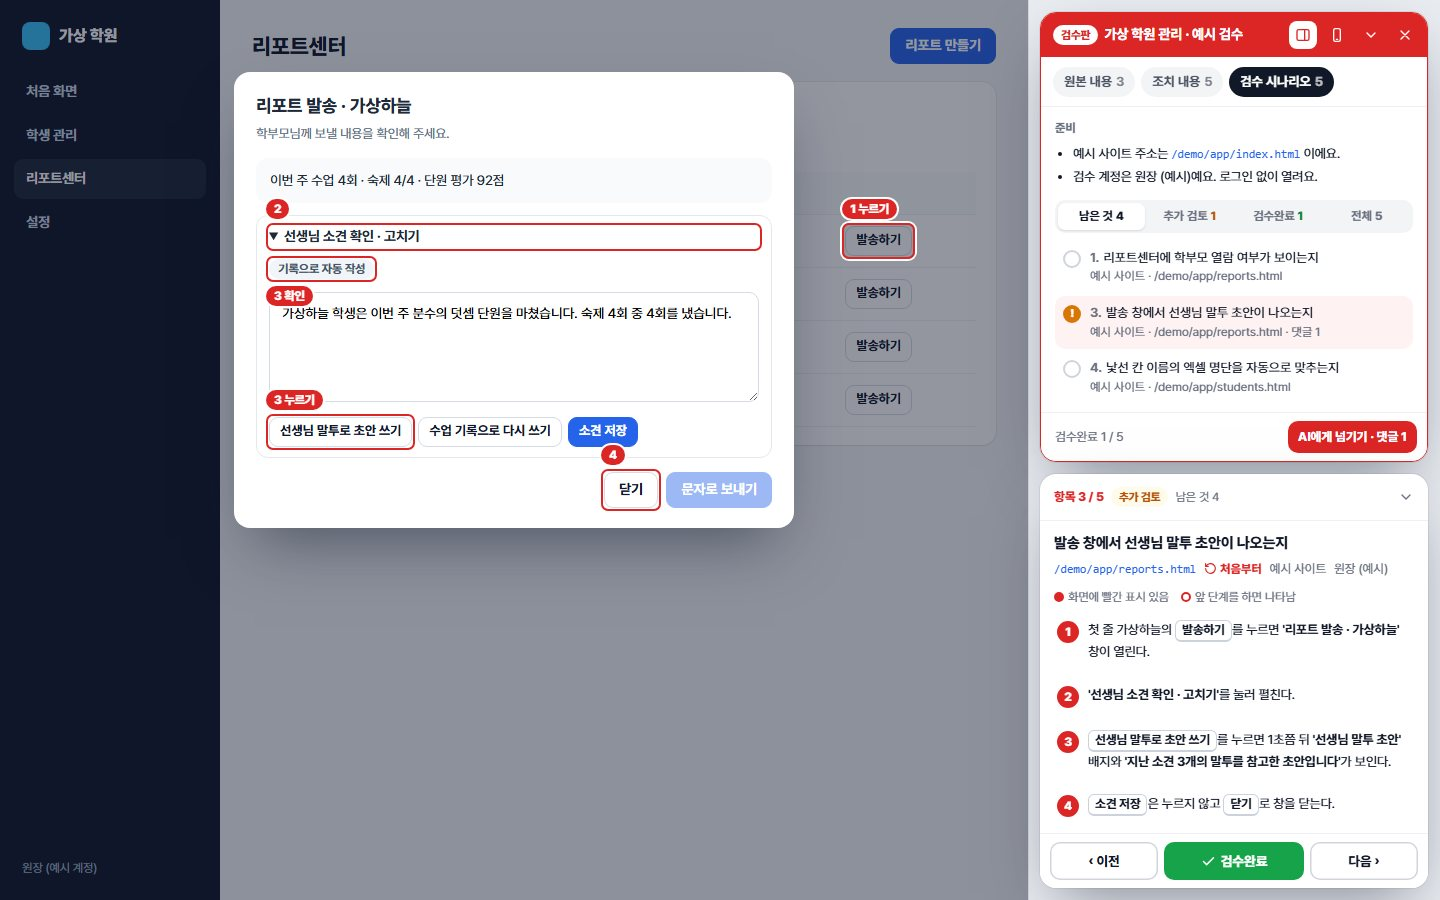
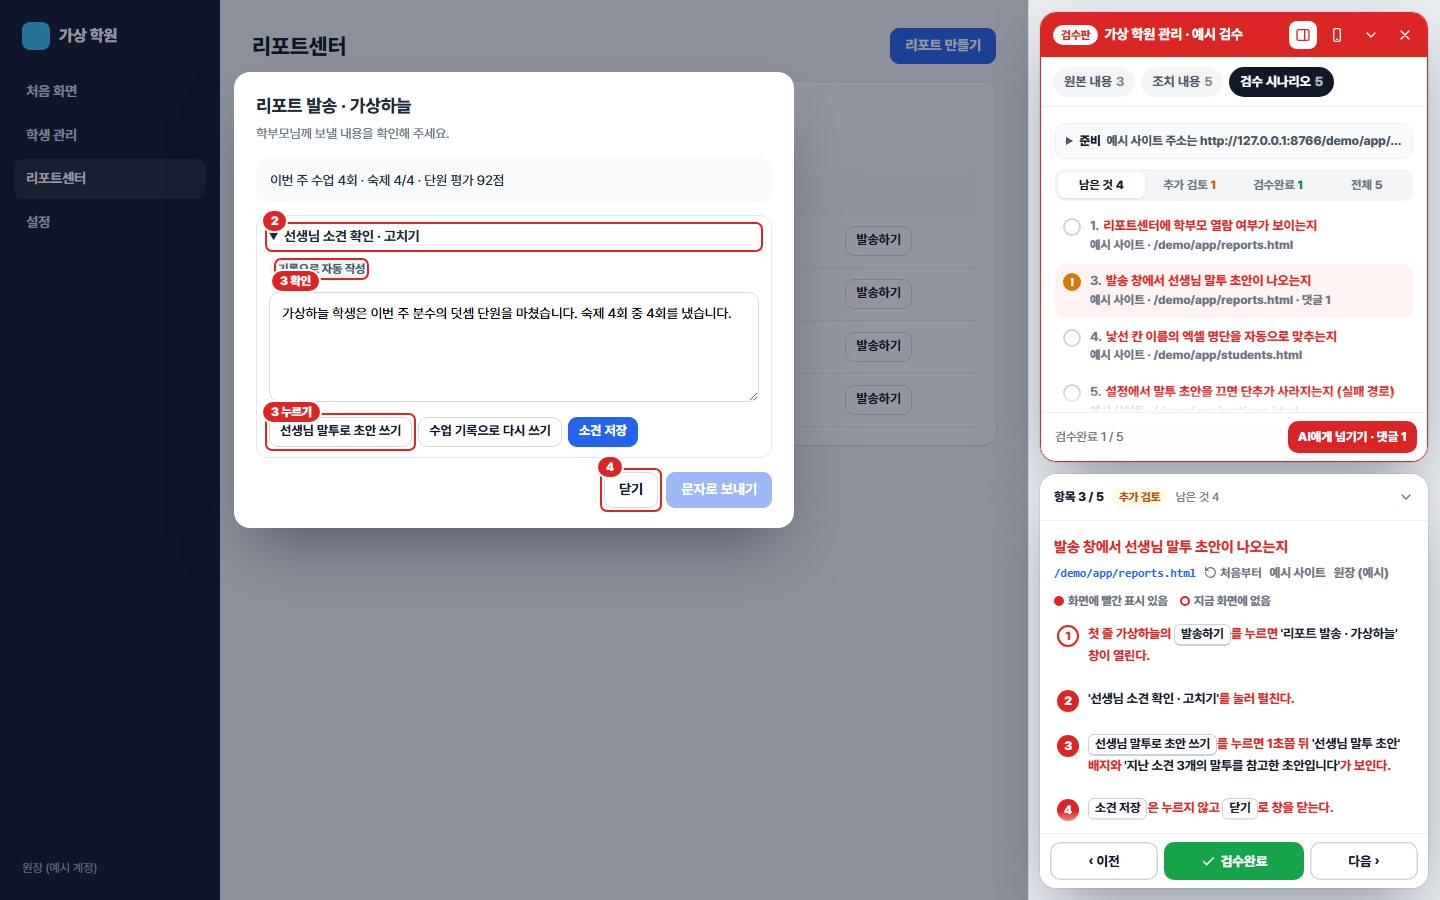
가려진 표시 숨김, 번호표 자리 고르기, 짧은 링크, 안내 화면 정리

diff --git a/qa-review.js b/qa-review.js
@@ -96,7 +96,8 @@
   const shortUrl = (url) => attempt(() => {
     const u = new URL(url, location.href);
     const rest = u.pathname + u.search + u.hash;
-    return u.origin === location.origin ? rest : u.host + (rest === '/' ? '' : rest);
+    if (rest === '/' || rest === '') return u.host;
+    return u.origin === location.origin ? rest : u.host + rest;
   }, String(url || ''));
   const link = (url, mono) => `<a class="ln${mono ? ' mono' : ''}" href="${esc(url)}" data-href="${esc(url)}" title="${esc(url)}">${esc(shortUrl(url))}</a>`;
   const URLS = /(https?:\/\/[^\s<>"'`]+[^\s<>"'`.,;:!?)\]])/g;
@@ -195,6 +196,34 @@
         .filter((el) => squash([el.getAttribute('aria-label'), el.getAttribute('placeholder'), el.getAttribute('title'), el.getAttribute('alt')].join(' ')).includes(want) && isShown(el));
     }
     return { el: shown[nth] || null, matches: shown.length };
+  };
+  const BOXY = { INPUT: 1, TEXTAREA: 1, SELECT: 1, BUTTON: 1, IMG: 1, SVG: 1, VIDEO: 1, CANVAS: 1, IFRAME: 1, SUMMARY: 1, PROGRESS: 1 };
+  const contentRect = (el) => {
+    const r = el.getBoundingClientRect();
+    if (BOXY[el.tagName.toUpperCase()] || el.getAttribute('role') === 'button' || !el.firstChild) return r;
+    const range = attempt(() => {
+      const x = el.ownerDocument.createRange();
+      x.selectNodeContents(el);
+      return x;
+    }, null);
+    const c = range ? range.getBoundingClientRect() : null;
+    if (!c || c.width < 2 || c.height < 2 || (c.width > r.width - 10 && c.height > r.height - 10)) return r;
+    const inner = intersect(c, r);
+    return inner ? Object.assign(inner, { width: inner.right - inner.left, height: inner.bottom - inner.top }) : r;
+  };
+  const textAt = (doc, x, y) => {
+    let node = null;
+    if (doc.caretRangeFromPoint) {
+      const range = attempt(() => doc.caretRangeFromPoint(x, y), null);
+      node = range && range.startContainer;
+    } else if (doc.caretPositionFromPoint) {
+      const pos = attempt(() => doc.caretPositionFromPoint(x, y), null);
+      node = pos && pos.offsetNode;
+    }
+    if (!node || node.nodeType !== 3 || !node.textContent.trim()) return false;
+    const r = doc.createRange();
+    r.selectNodeContents(node);
+    return Array.from(r.getClientRects()).some((c) => x >= c.left && x <= c.right && y >= c.top && y <= c.bottom);
   };
   const selectorFor = (el) => {
     const doc = el.ownerDocument;
@@ -409,6 +438,12 @@ svg{display:block}
 .tab.on{background:#111827;color:#fff}
 .tab i{font-style:normal;margin-left:4px;opacity:.7}
 .body{flex:1;min-height:0;overflow:auto;padding:12px 14px 14px;overscroll-behavior:contain}
+.body.more,.nb.more{-webkit-mask-image:linear-gradient(to bottom,#000 calc(100% - 22px),transparent);mask-image:linear-gradient(to bottom,#000 calc(100% - 22px),transparent)}
+details.prep{margin:0 0 10px;background:#f9fafb;border:1px solid #eef0f4;border-radius:10px;padding:7px 10px}
+details.prep summary{cursor:pointer;font-size:12.5px;color:#4b5563;white-space:nowrap;overflow:hidden;text-overflow:ellipsis}
+details.prep summary b{color:#111827;margin-right:6px}
+details.prep[open] summary{white-space:normal}
+details.prep ul{margin-top:6px}
 .ft{flex:none;display:flex;align-items:center;gap:8px;padding:8px 10px 8px 14px;border-top:1px solid #eef0f4;background:#fff}
 .ft .sum{flex:1;min-width:0;font-size:12.5px;color:#6b7280;white-space:nowrap;overflow:hidden;text-overflow:ellipsis}
 .top.fold{max-height:none}
@@ -455,7 +490,7 @@ details.sec summary{cursor:pointer}
 .dot.needs::after{content:"!";font-size:11px;font-weight:900;line-height:1}
 .empty{color:#6b7280;font-size:13px;margin:10px 2px}
 .nh{flex:none;display:flex;align-items:center;gap:7px;padding:9px 8px 9px 14px;border-bottom:1px solid #eef0f4;cursor:pointer;user-select:none}
-.nh .no{font-size:12.5px;font-weight:800;color:#dc2626;white-space:nowrap}
+.nh .no{font-size:12.5px;font-weight:800;color:#111827;white-space:nowrap}
 .nh .left{font-size:12px;color:#6b7280;white-space:nowrap}
 .nh .nt{display:none;flex:1;min-width:0;font-weight:700;font-size:13px;white-space:nowrap;overflow:hidden;text-overflow:ellipsis}
 .nh .sp{flex:1}
@@ -471,7 +506,8 @@ details.sec summary{cursor:pointer}
 .nav.fold .nb{display:none}
 .it{margin:0 0 5px;font-size:15px;font-weight:800;line-height:1.42}
 .meta{display:flex;flex-wrap:wrap;align-items:center;gap:3px 8px;font-size:12.5px;color:#6b7280;margin:0 0 9px}
-.meta .tiny{display:inline-flex;align-items:center;gap:3px;font-size:12px;font-weight:800;color:#dc2626}
+.meta .tiny{display:inline-flex;align-items:center;gap:3px;font-size:12px;font-weight:700;color:#6b7280}
+.meta .tiny:hover{color:#111827}
 .meta .tiny svg{width:13px;height:13px;fill:none;stroke:currentColor;stroke-width:2.2;stroke-linecap:round;stroke-linejoin:round}
 .sit{font-size:12.5px;color:#4b5563;margin:-3px 0 10px;line-height:1.55}
 .legend{display:flex;gap:12px;font-size:12px;color:#6b7280;margin:0 0 6px}
@@ -751,6 +787,13 @@ a.ln.mono{font-family:ui-monospace,SFMono-Regular,Menlo,Consolas,monospace;font-
         }
         if (e.key === 'Escape') this.key(e);
       });
+      this.ui.body.addEventListener('scroll', () => this.fade(this.ui.body), { passive: true });
+      this.ui.nb.addEventListener('scroll', () => this.fade(this.ui.nb), { passive: true });
+      this.ui.root.addEventListener('toggle', (e) => {
+        if (e.target.classList && e.target.classList.contains('prep')) this.prepOpen = e.target.open;
+        this.fade(this.ui.body);
+        this.fade(this.ui.nb);
+      }, true);
       this.ui.pick.addEventListener('mousemove', (e) => this.pickMove(e));
       this.ui.pick.addEventListener('click', (e) => this.pickClick(e));
     }
@@ -890,7 +933,7 @@ a.ln.mono{font-family:ui-monospace,SFMono-Regular,Menlo,Consolas,monospace;font-
         id: this.spec.id,
         item: it ? it.id : null,
         page: this.href(),
-        marks: this.targets.map((t) => ({ kind: t.kind, step: t.step || null, label: t.label, found: Boolean(t.el), matches: t.matches })),
+        marks: this.targets.map((t) => ({ kind: t.kind, step: t.step || null, label: t.label, found: Boolean(t.el), visible: Boolean(t.el && t.visible), matches: t.matches })),
       };
     }
 
@@ -983,6 +1026,13 @@ a.ln.mono{font-family:ui-monospace,SFMono-Regular,Menlo,Consolas,monospace;font-
       const keep = this.ui.body.scrollTop;
       this.ui.body.innerHTML = tab === 'actions' ? this.actionsHtml() : tab === 'scenario' ? this.scenarioHtml() : this.originalHtml();
       this.ui.body.scrollTop = keep;
+      const curRow = tab === 'scenario' && this.ui.body.querySelector('.row.cur');
+      if (curRow) {
+        const b = this.ui.body.getBoundingClientRect();
+        const r = curRow.getBoundingClientRect();
+        if (b.height && (r.top < b.top || r.bottom > b.bottom)) this.ui.body.scrollTop += r.top - b.top - (b.height - r.height) / 2;
+      }
+      this.fade(this.ui.body);
       const comments = this.spec.items.reduce((n, it) => n + freshComments(this.entry(it.id)).length, 0);
       this.ui.sum.textContent = `검수완료 ${c.done} / ${c.all}`;
       const exportBtn = this.ui.top.querySelector('.ft [data-act="export"]');
@@ -1025,7 +1075,7 @@ a.ln.mono{font-family:ui-monospace,SFMono-Regular,Menlo,Consolas,monospace;font-
       const s = this.spec;
       const c = this.counts();
       const f = this.state.filter;
-      const prep = s.prep.length ? `<section class="sec"><h5>준비</h5><ul>${s.prep.map((x) => `<li>${inline(x)}</li>`).join('')}</ul></section>` : '';
+      const prep = s.prep.length ? `<details class="prep"${this.prepOpen ? ' open' : ''}><summary><b>준비</b>${esc(String(s.prep[0]).replace(/[`*]/g, ''))}</summary><ul>${s.prep.map((x) => `<li>${inline(x)}</li>`).join('')}</ul></details>` : '';
       const filters = `<div class="filters" role="tablist">${FILTERS.map(([key, label]) => `<button class="fc f-${key}${key === f ? ' on' : ''}" type="button" data-act="filter" data-f="${key}">${label}<span>${c[key]}</span></button>`).join('')}</div>`;
       const rows = s.items.filter((it) => matchFilter(this.statusOf(it.id), f));
       const empty = { left: '남은 항목이 없어요. 모두 검수했어요.', needs: '추가 검토로 남긴 항목이 없어요.', done: '아직 검수완료한 항목이 없어요.', all: '검수 항목이 없어요.' }[f];
@@ -1086,7 +1136,7 @@ a.ln.mono{font-family:ui-monospace,SFMono-Regular,Menlo,Consolas,monospace;font-
         : '';
       const situation = it.situation ? `<p class="sit">${inline(it.situation)}</p>` : '';
       const anyMark = it.steps.some((step) => step.marks.length) && sameSite;
-      const legend = anyMark ? '<div class="legend"><span><i class="on"></i>화면에 빨간 표시 있음</span><span><i></i>앞 단계를 하면 나타남</span></div>' : '';
+      const legend = anyMark ? '<div class="legend"><span><i class="on"></i>화면에 빨간 표시 있음</span><span><i></i>지금 화면에 없음</span></div>' : '';
       const steps = it.steps.length ? `${legend}<ol class="steps">${it.steps.map((step, k) => {
         const marked = step.marks.length > 0 && sameSite;
         return `<li class="st" data-step="${k + 1}" data-act="step"><span class="n${marked ? '' : ' nomark'}">${k + 1}</span><div class="tx">${inline(step.text)}`
@@ -1105,6 +1155,7 @@ a.ln.mono{font-family:ui-monospace,SFMono-Regular,Menlo,Consolas,monospace;font-
         + `${nm ? `<div class="me">${esc(nm)}님 이름으로 남겨요<button type="button" data-act="rename">바꾸기</button></div>` : ''}</div></div>`;
       this.ui.nb.innerHTML = `${done}<h3 class="it">${inline(it.title)}</h3>${meta}${cross}${situation}${steps}${ai}${composer}`;
       this.ui.nb.scrollTop = keep;
+      this.fade(this.ui.nb);
       this.ui.prev.disabled = !this.neighbor(-1);
       this.ui.next.disabled = !this.neighbor(1);
       this.ui.done.disabled = false;
@@ -1218,8 +1269,30 @@ a.ln.mono{font-family:ui-monospace,SFMono-Regular,Menlo,Consolas,monospace;font-
         const step = Number(li.dataset.step);
         const mine = this.targets.filter((t) => t.kind === 'step' && t.step === step);
         if (!mine.length) return;
-        li.classList.toggle('on', mine.some((t) => t.el));
+        li.classList.toggle('on', mine.some((t) => t.el && t.visible));
       });
+    }
+
+    fade(el) {
+      el.classList.toggle('more', el.scrollTop + el.clientHeight < el.scrollHeight - 2);
+    }
+
+    covered(el, rect) {
+      const doc = el.ownerDocument;
+      const points = [[0.5, 0.5], [0.25, 0.3], [0.75, 0.3], [0.25, 0.72], [0.75, 0.72]];
+      let tested = 0;
+      for (let i = 0; i < points.length; i += 1) {
+        const x = rect.left + (rect.right - rect.left) * points[i][0];
+        const y = rect.top + (rect.bottom - rect.top) * points[i][1];
+        const hitEl = doc === document
+          ? attempt(() => document.elementsFromPoint(x, y).find((n) => n !== this.host) || null, null)
+          : attempt(() => doc.elementFromPoint(x, y), null);
+        if (hitEl) {
+          tested += 1;
+          if (hitEl === el || el.contains(hitEl) || hitEl.contains(el)) return false;
+        }
+      }
+      return tested > 0;
     }
 
     schedule() {
@@ -1244,16 +1317,30 @@ a.ln.mono{font-family:ui-monospace,SFMono-Regular,Menlo,Consolas,monospace;font-
         groups.set(t.el, g);
       });
       const list = [];
+      const seen = new Set();
       groups.forEach((g) => {
-        const r = g.el.getBoundingClientRect();
+        const r = contentRect(g.el);
         if (!r.width && !r.height) return;
         const clip = clipBox(g.el);
-        if (!intersect(r, clip)) return;
-        const o = intersect({ left: r.left - 3, top: r.top - 3, right: r.right + 3, bottom: r.bottom + 3 }, clip);
+        const shownPart = intersect(r, clip);
+        if (!shownPart) return;
+        const win = viewOf(g.el);
+        const onScreen = intersect(shownPart, { left: 0, top: 0, right: win.innerWidth, bottom: win.innerHeight });
+        if (!onScreen || this.covered(g.el, onScreen)) return;
+        const o = intersect({ left: r.left - 4, top: r.top - 4, right: r.right + 4, bottom: r.bottom + 4 }, clip);
         if (!o) return;
         const box = intersect({ left: o.left + off.left, top: o.top + off.top, right: o.right + off.left, bottom: o.bottom + off.top }, view);
-        if (box) list.push(Object.assign(g, { box }));
+        if (!box) return;
+        seen.add(g.el);
+        list.push(Object.assign(g, { box }));
       });
+      let changed = false;
+      this.targets.forEach((t) => {
+        const visible = Boolean(t.el && seen.has(t.el));
+        if (visible !== Boolean(t.visible)) changed = true;
+        t.visible = visible;
+      });
+      if (changed) this.updateSteps();
       const nodes = this.markNodes || (this.markNodes = []);
       while (nodes.length < list.length) {
         const d = document.createElement('div');
@@ -1278,18 +1365,39 @@ a.ln.mono{font-family:ui-monospace,SFMono-Regular,Menlo,Consolas,monospace;font-
         n.b.className = `mb${g.pin ? ' cm' : ''}`;
         const bw = n.b.offsetWidth || label.length * 8 + 16;
         const bh = 20;
-        const midY = box.top + (box.bottom - box.top - bh) / 2;
-        const spots = [
-          { left: box.left, top: box.top - bh - 4 },
-          { left: box.left, top: box.bottom + 4 },
-          { left: box.left - bw - 6, top: midY },
-          { left: box.right + 6, top: midY },
-          { left: box.right - bw, top: box.top - bh - 4 },
-          { left: box.right - bw, top: box.bottom + 4 },
-        ].map((s) => ({ left: s.left, top: s.top, right: s.left + bw, bottom: s.top + bh }));
-        const inside = (s) => s.left >= view.left + 2 && s.top >= view.top + 2 && s.right <= view.right - 2 && s.bottom <= view.bottom - 2;
-        const free = (s) => !boxes.some((other, j) => j !== i && hit(s, other)) && !badges.some((other) => hit(s, other));
-        const spot = spots.find((s) => inside(s) && free(s)) || spots.find(inside) || spots[0];
+        const key = `${Math.round(box.left)},${Math.round(box.top)},${Math.round(box.right)},${Math.round(box.bottom)},${label},${list.length}`;
+        let spot = n.key === key ? n.spot : null;
+        if (!spot) {
+          const midY = box.top + (box.bottom - box.top - bh) / 2;
+          const spots = [
+            { left: box.left - 2, top: box.top - bh / 2 - 1 },
+            { left: box.left, top: box.top - bh - 4 },
+            { left: box.left - 2, top: box.bottom - bh / 2 + 1 },
+            { left: box.left - bw - 6, top: midY },
+            { left: box.right + 6, top: midY },
+            { left: box.left, top: box.bottom + 4 },
+            { left: box.right - bw + 2, top: box.top - bh / 2 - 1 },
+          ].map((s) => ({ left: s.left, top: s.top, right: s.left + bw, bottom: s.top + bh }));
+          const doc = g.el.ownerDocument;
+          const score = (s, k) => {
+            let total = k * 0.5;
+            if (s.left < view.left + 2 || s.top < view.top + 2 || s.right > view.right - 2 || s.bottom > view.bottom - 2) total += 100;
+            boxes.forEach((other, j) => {
+              if (j !== i && hit(s, other)) total += 6;
+            });
+            badges.forEach((other) => {
+              if (hit(s, other)) total += 30;
+            });
+            const y = s.top + bh / 2 - off.top;
+            [s.left + 5, (s.left + s.right) / 2, s.right - 5].forEach((x) => {
+              if (textAt(doc, x - off.left, y)) total += 10;
+            });
+            return total;
+          };
+          spot = spots.map((s, k) => ({ s, v: score(s, k) })).sort((a, b) => a.v - b.v)[0].s;
+          n.key = key;
+          n.spot = spot;
+        }
         const left = Math.min(Math.max(spot.left, view.left + 2), view.right - bw - 2);
         const top = Math.min(Math.max(spot.top, view.top + 2), view.bottom - bh - 2);
         n.b.style.left = `${left}px`;
